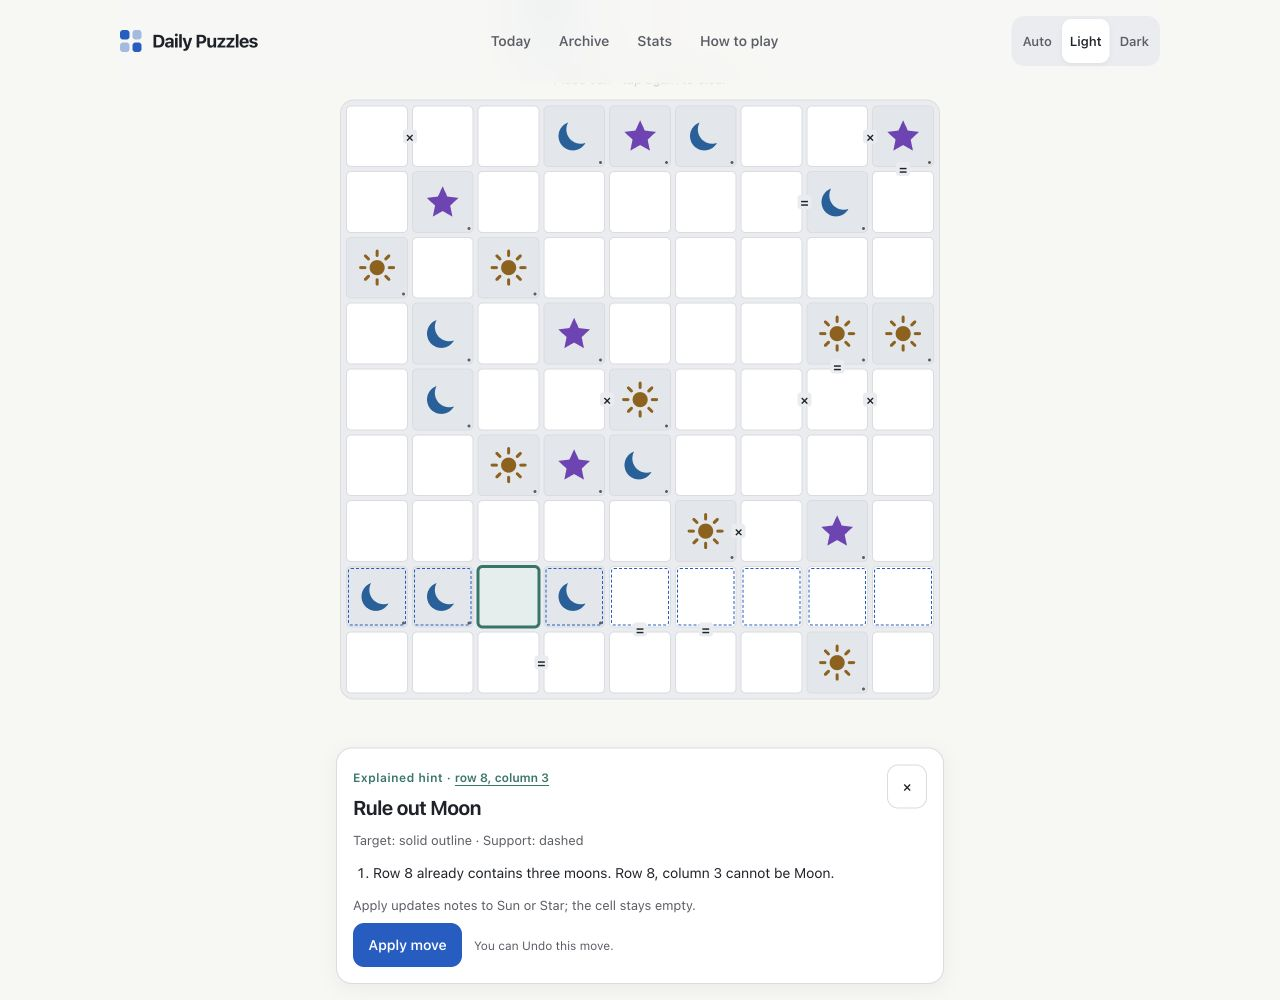
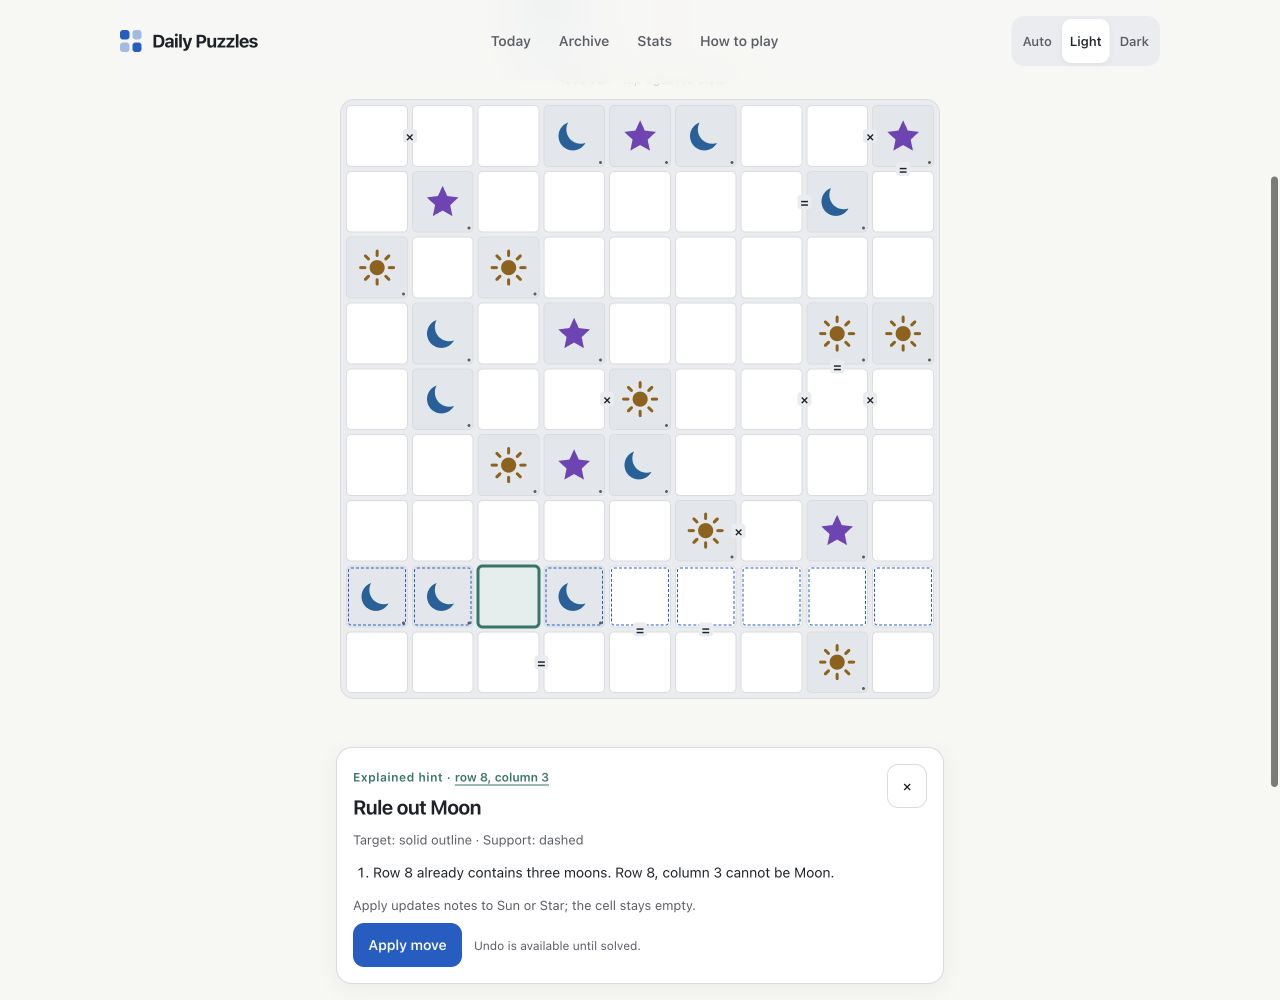
docs: clarify hint Undo and record production validation

diff --git a/app/src/components/TrioHintPanel.tsx b/app/src/components/TrioHintPanel.tsx
@@ -23,6 +23,6 @@ export function TrioHintPanel({ hint, id, onApply, onDismiss, onShowCell }: {
     <ol>{hint.steps.map((step, i) => <li key={i}>{step.reason}</li>)}</ol>
     {!placed && <p className="trio-hint-effect">Apply updates notes to {trioCandidateNames(hint.candidates)}; the cell stays empty.</p>}
     <button type="button" className="tool-button trio-apply-hint" onClick={onApply}>Apply move</button>
-    <span className="trio-hint-undo">You can Undo this move.</span>
+    <span className="trio-hint-undo">Undo is available until solved.</span>
   </section>
 }

diff --git a/docs/journal.md b/docs/journal.md
@@ -1347,6 +1347,7 @@ the full deduction pass for contradictions before offering a move. Applying an
 elimination updates only that cell's notes to the remaining candidates. A forced
 symbol uses the normal placement path. Both are one undoable move; existing
 progress storage needs no migration. Edits, Undo and Reset clear stale hints.
+As with manual play, completing the board locks editing and Undo.
 
 Five focused domain cases cover elimination, equality chains, different clues,
 misleading notes, indirect contradictions, stale application and all five pilots.
@@ -1355,7 +1356,9 @@ only the existing TracksStage effect warning. Browser checks covered candidate
 application and Undo, persistence, keyboard dismissal, target focus, stale-hint
 removal and completion through a forced-symbol hint. At 320×667 and 375×667 the
 initial board still fits without horizontal overflow; long explanations scroll.
-Physical iPhone and airplane-mode checks remain unverified.
+The production build also opens directly under `/daily-puzzles/` to board 5,
+applies a candidate hint and restores it after reload. Independent review found
+no material issues. Physical iPhone and airplane-mode checks remain unverified.
 
 Queens/Star Battle explanation improvements and Train Tracks hints follow this
 Trio slice. Word Paths stays last. No daily publishing, stats, dependency, engine
